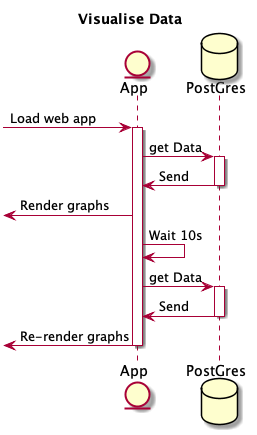
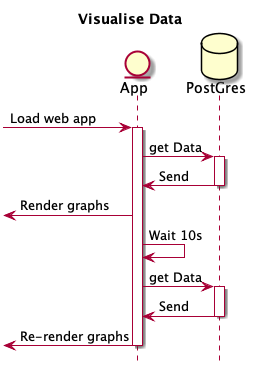
📓 Address some documentation questions (#15)
* Update link and sequence diagrams

* explainm some of the app_host

diff --git a/ARCHITECTURE.md b/ARCHITECTURE.md
@@ -10,7 +10,7 @@ This app consists of:
 
 ## App startup
 
-At startup the app will initialise the db table and setup a [callback channel (webhook)](https://www.pelion.com/docs/device-management/current/integrate-web-app/event-notification.html) with Pelion Device management. The app will then send a request to initiate [subscriptions to device resources](https://www.pelion.com/docs/device-management/current/connecting/resource-change-webapp.html).
+At startup the app will initialise the db table and setup a [callback channel (webhook)](https://www.pelion.com/docs/device-management/current/integrate-web-app/event-notification.html) with Pelion Device management. The app will then send a request to initiate [subscriptions to device resources](https://www.pelion.com/docs/device-management/current/device-management/resource-change-webapp.html).
 
 ![](docs/app_setup.png)
 

diff --git a/GETTING_STARTED.md b/GETTING_STARTED.md
@@ -5,7 +5,7 @@
 You will need two pieces of information at a minimum to get this running correctly.
 
 - `APIKEY` - API Key from Pelion Device Management - https://portal.mbedcloud.com/
-- `APP_HOST` - URL of the application to be deployed - `https://<APP>.herokuapp.com/`
+- `APP_HOST` - URL of the application to be deployed - `https://<APP>.herokuapp.com/` - This will be determined during the creation of the app.
 
 ## Deploy from Github
 
@@ -18,7 +18,7 @@ Create an app in Heroku by cloning from an existing Git repository
 4. Confirm your email and set a password
 5. Welcome -> Click here to proceed
    - Continues create app flow
-   - Enter name for your app: `APP`
+   - Enter name for your app: `APP` <-- Save this information for `APP_HOST` later.
 
 Build process starts and app will deploy to `https://<APP>.herokuapp.com/`
 
